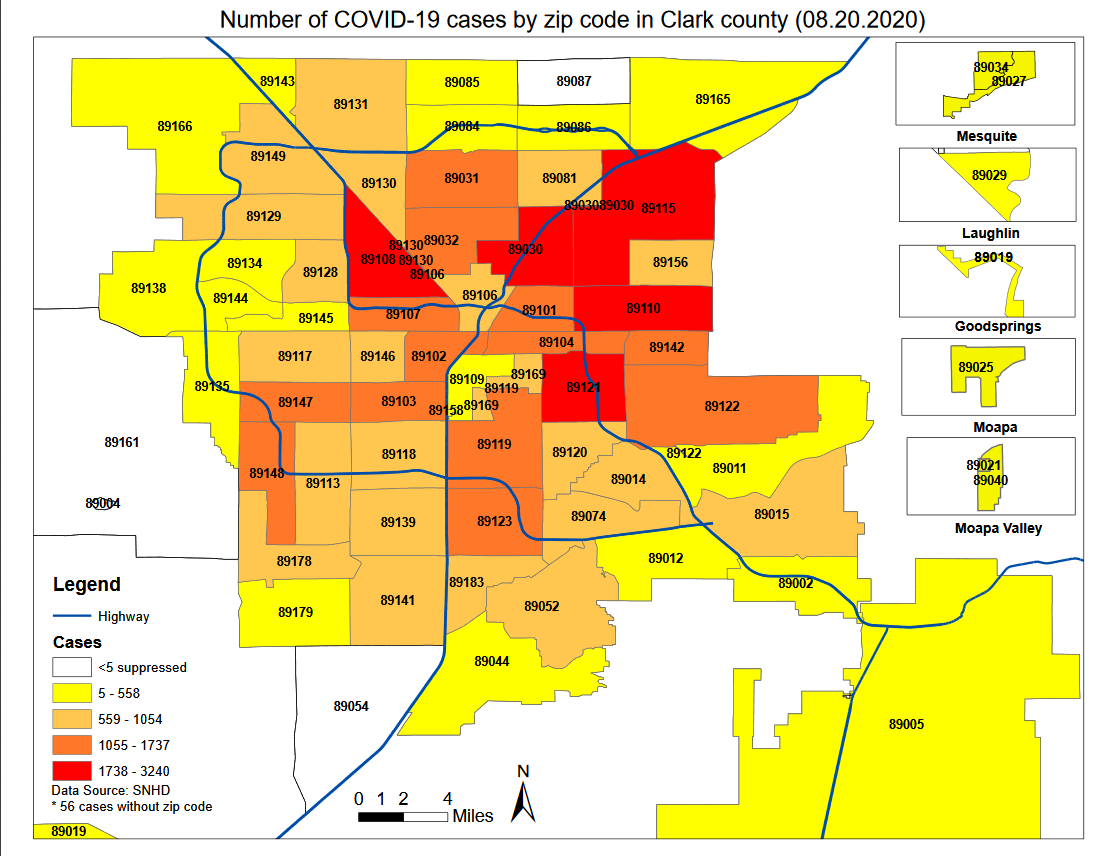
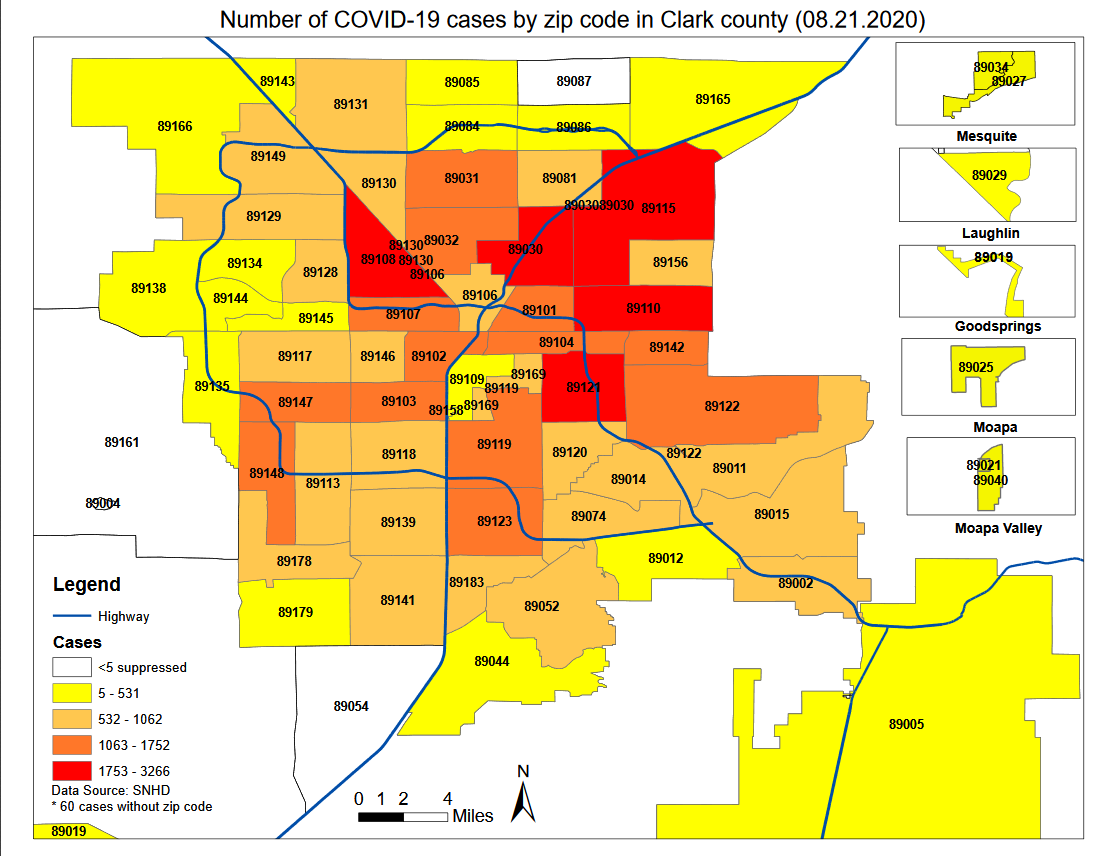
Day 171

diff --git a/src/pages/clarkcounty.js b/src/pages/clarkcounty.js
@@ -186,6 +186,7 @@ class ClarkPage extends Component {
 				'8/18/20',
 				'8/19/20',
 				'8/20/20',
+				'8/21/20',
 			],
 			datasets: [
 				{
@@ -362,6 +363,7 @@ class ClarkPage extends Component {
 						54353,
 						54795,
 						55521,
+						56010,
 					],
 				},
 			],
@@ -539,6 +541,7 @@ class ClarkPage extends Component {
 				'8/18/20',
 				'8/19/20',
 				'8/20/20',
+				'8/21/20',
 			],
 			datasets: [
 				{
@@ -715,6 +718,7 @@ class ClarkPage extends Component {
 						277,
 						442,
 						726,
+						489,
 					],
 				},
 			],
@@ -872,6 +876,7 @@ class ClarkPage extends Component {
 				'8/18/20',
 				'8/19/20',
 				'8/20/20',
+				'8/21/20',
 			],
 			datasets: [
 				{
@@ -1028,6 +1033,7 @@ class ClarkPage extends Component {
 						3821,
 						3948,
 						4045,
+						4121,
 					],
 				},
 			],
@@ -1184,6 +1190,7 @@ class ClarkPage extends Component {
 				'8/18/20',
 				'8/19/20',
 				'8/20/20',
+				'8/21/20',
 			],
 			datasets: [
 				{
@@ -1340,6 +1347,7 @@ class ClarkPage extends Component {
 						105,
 						127,
 						97,
+						76,
 					],
 				},
 			],
@@ -1517,6 +1525,7 @@ class ClarkPage extends Component {
 				'8/18/20',
 				'8/19/20',
 				'8/20/20',
+				'8/21/20',
 			],
 			datasets: [
 				{
@@ -1692,6 +1701,7 @@ class ClarkPage extends Component {
 						969,
 						1006,
 						1015,
+						1027,
 					],
 					backgroundColor: 'maroon',
 				},
@@ -1858,6 +1868,7 @@ class ClarkPage extends Component {
 				'8/18/20',
 				'8/19/20',
 				'8/20/20',
+				'8/21/20',
 			],
 			datasets: [
 				{
@@ -2022,6 +2033,7 @@ class ClarkPage extends Component {
 						32,
 						37,
 						9,
+						12,
 					],
 				},
 			],
@@ -2199,6 +2211,7 @@ class ClarkPage extends Component {
 				'8/18/20',
 				'8/19/20',
 				'8/20/20',
+				'8/21/20',
 			],
 			datasets: [
 				{
@@ -2373,7 +2386,8 @@ class ClarkPage extends Component {
 						14.0,
 						14.1,
 						14.0,
-						14.0,
+						13.8,
+						13.5,
 						null,
 						null,
 						null,
@@ -2452,6 +2466,7 @@ class ClarkPage extends Component {
 						null,
 						null,
 						null,
+						6.9,
 						6.9,
 						6.9,
 						6.9,
@@ -2736,6 +2751,7 @@ class ClarkPage extends Component {
 						3.9,
 						3.9,
 						3.9,
+						3.9,
 					],
 				},
 			],
@@ -2746,7 +2762,7 @@ class ClarkPage extends Component {
 			datasets: [
 				{
 					label: 'Age of Cases',
-					data: [1086, 4177, 7157, 26833, 10739, 5514],
+					data: [1101, 4231, 7223, 27047, 10833, 5559],
 					backgroundColor: [
 						'rgb(54, 162, 235)', //blue
 						'rgb(255, 99, 132)', //salmon
@@ -2764,7 +2780,7 @@ class ClarkPage extends Component {
 			datasets: [
 				{
 					label: 'Sex',
-					data: [28359, 26760, 402],
+					data: [28621, 26987, 402],
 					backgroundColor: [
 						'rgb(255, 99, 132)',
 						'rgb(54, 162, 235)',
@@ -2806,8 +2822,8 @@ class ClarkPage extends Component {
 											</div>
 										</div>
 										<div className='card-value pt-4'>
-											<h1>55,521</h1>
-											<h2 className='is_salmon'>+ 726</h2>
+											<h1>56,010</h1>
+											<h2 className='is_salmon'>+ 489</h2>
 										</div>
 									</div>
 								</div>
@@ -2819,8 +2835,8 @@ class ClarkPage extends Component {
 											</div>
 										</div>
 										<div className='card-value pt-4'>
-											<h1>4,045</h1>
-											<h2 className='is_salmon'>+ 97</h2>
+											<h1>4,121</h1>
+											<h2 className='is_salmon'>+ 76</h2>
 										</div>
 									</div>
 								</div>
@@ -2832,8 +2848,8 @@ class ClarkPage extends Component {
 											</div>
 										</div>
 										<div className='card-value pt-4'>
-											<h1>87.0%</h1>
-											<h2 className='is_salmon'>+ 0.2%</h2>
+											<h1>87.4%</h1>
+											<h2 className='is_salmon'>+ 0.4%</h2>
 										</div>
 									</div>
 								</div>
@@ -2845,8 +2861,8 @@ class ClarkPage extends Component {
 											</div>
 										</div>
 										<div className='card-value pt-4'>
-											<h1>1,015</h1>
-											<h2 className='is_salmon'>+ 9</h2>
+											<h1>1,027</h1>
+											<h2 className='is_salmon'>+ 12</h2>
 										</div>
 									</div>
 								</div>

diff --git a/src/pages/nevada.js b/src/pages/nevada.js
@@ -181,6 +181,7 @@ class NevadaPage extends Component {
 				'8/18/20',
 				'8/19/20',
 				'8/20/20',
+				'8/21/20',
 			],
 			datasets: [
 				{
@@ -356,6 +357,7 @@ class NevadaPage extends Component {
 						63028,
 						63584,
 						64433,
+						65069,
 					],
 					fill: false, // Don't fill area under the line
 					backgroundColor: '#933A16', // Line color
@@ -534,6 +536,7 @@ class NevadaPage extends Component {
 				'8/18/20',
 				'8/19/20',
 				'8/20/20',
+				'8/21/20',
 			],
 			datasets: [
 				{
@@ -710,6 +713,7 @@ class NevadaPage extends Component {
 						389,
 						556,
 						849,
+						636,
 					],
 					fill: false, // Don't fill area under the line
 					backgroundColor: '#933A16', // Bar color
@@ -888,6 +892,7 @@ class NevadaPage extends Component {
 				'8/18/20',
 				'8/19/20',
 				'8/20/20',
+				'8/21/20',
 			],
 			datasets: [
 				{
@@ -1052,17 +1057,18 @@ class NevadaPage extends Component {
 						1033,
 						1051,
 						1067,
-						1080,
-						1100,
-						1111,
-						1120,
-						1132,
-						1150,
-						1160,
-						1171,
-						1180,
-						1181,
-						1181,
+						1081,
+						1102,
+						1113,
+						1122,
+						1135,
+						1155,
+						1166,
+						1177,
+						1187,
+						1188,
+						1193,
+						1193,
 					],
 					backgroundColor: 'maroon',
 				},
@@ -1229,6 +1235,7 @@ class NevadaPage extends Component {
 				'8/18/20',
 				'8/19/20',
 				'8/20/20',
+				'8/21/20',
 			],
 			datasets: [
 				{
@@ -1382,16 +1389,17 @@ class NevadaPage extends Component {
 						16,
 						18,
 						16,
+						14,
+						21,
+						11,
+						9,
 						13,
 						20,
 						11,
-						9,
-						12,
-						18,
-						10,
 						11,
-						9,
+						10,
 						1,
+						5,
 						0,
 					],
 				},
@@ -1550,6 +1558,7 @@ class NevadaPage extends Component {
 				'8/18/20',
 				'8/19/20',
 				'8/20/20',
+				'8/21/20',
 			],
 			datasets: [
 				{
@@ -1699,6 +1708,7 @@ class NevadaPage extends Component {
 						10.4,
 						10.4,
 						10.4,
+						10.5,
 						10.5,
 						10.5,
 						10.5,
@@ -1862,8 +1872,9 @@ class NevadaPage extends Component {
 						12.8,
 						12.7,
 						12.7,
-						11.8,
+						11.9,
 						11.6,
+						11.3,
 						11.5,
 						11.8,
 						null,
@@ -1922,6 +1933,7 @@ class NevadaPage extends Component {
 						null,
 						null,
 						null,
+						10.4,
 						10.4,
 						10.4,
 						10.4,
@@ -2185,6 +2197,7 @@ class NevadaPage extends Component {
 						6.0,
 						6.0,
 						6.0,
+						6.0,
 					],
 				},
 			],
@@ -2220,8 +2233,8 @@ class NevadaPage extends Component {
 										</div>
 									</div>
 									<div className='card-value pt-4'>
-										<h1>566,236</h1>
-										<h2 className='is_salmon'>+ 5,255</h2>
+										<h1>569,960</h1>
+										<h2 className='is_salmon'>+ 3,724</h2>
 									</div>
 								</div>
 							</div>
@@ -2233,8 +2246,8 @@ class NevadaPage extends Component {
 										</div>
 									</div>
 									<div className='card-value pt-4'>
-										<h1>501,878</h1>
-										<h2 className='is_salmon'>+ 4,499</h2>
+										<h1>505,057</h1>
+										<h2 className='is_salmon'>+ 3,179</h2>
 									</div>
 								</div>
 							</div>
@@ -2246,7 +2259,7 @@ class NevadaPage extends Component {
 										</div>
 									</div>
 									<div className='card-value pt-4'>
-										<h1>64,433</h1>
+										<h1>65,069</h1>
 										<h2 className='is_salmon'>+ 849</h2>
 									</div>
 								</div>
@@ -2259,8 +2272,8 @@ class NevadaPage extends Component {
 										</div>
 									</div>
 									<div className='card-value pt-4'>
-										<h1>1,181</h1>
-										<h2 className='is_salmon'>+ 9</h2>
+										<h1>1,193</h1>
+										<h2 className='is_salmon'>+ 8</h2>
 									</div>
 								</div>
 							</div>
